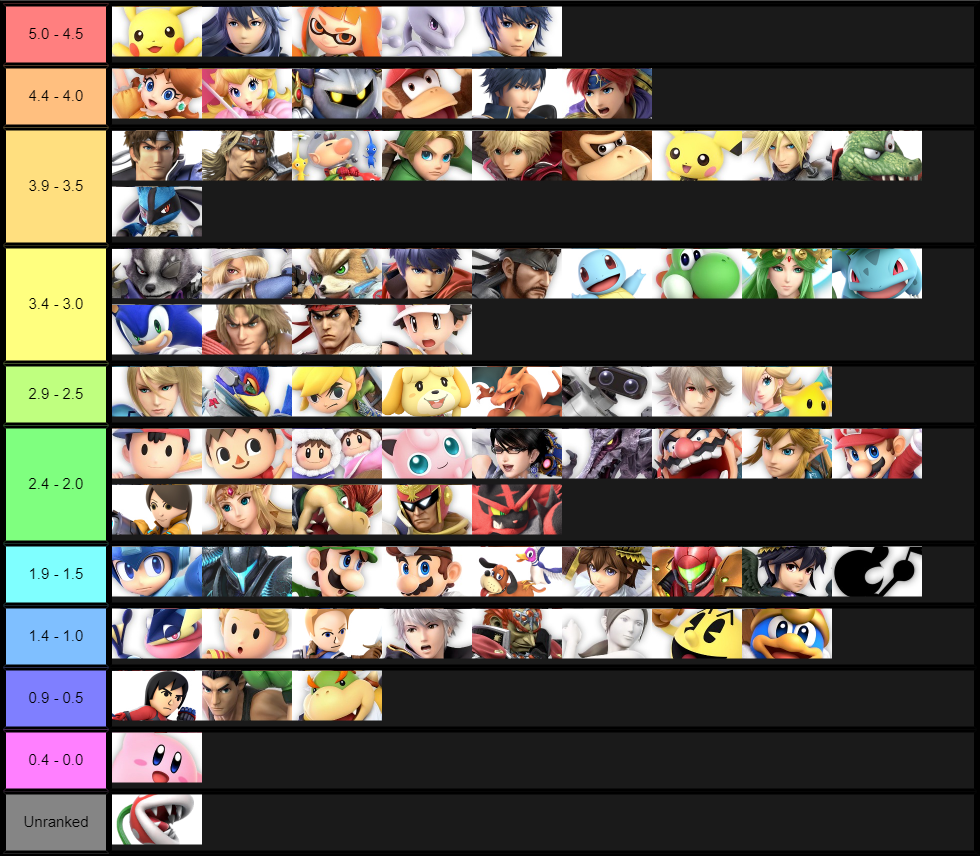
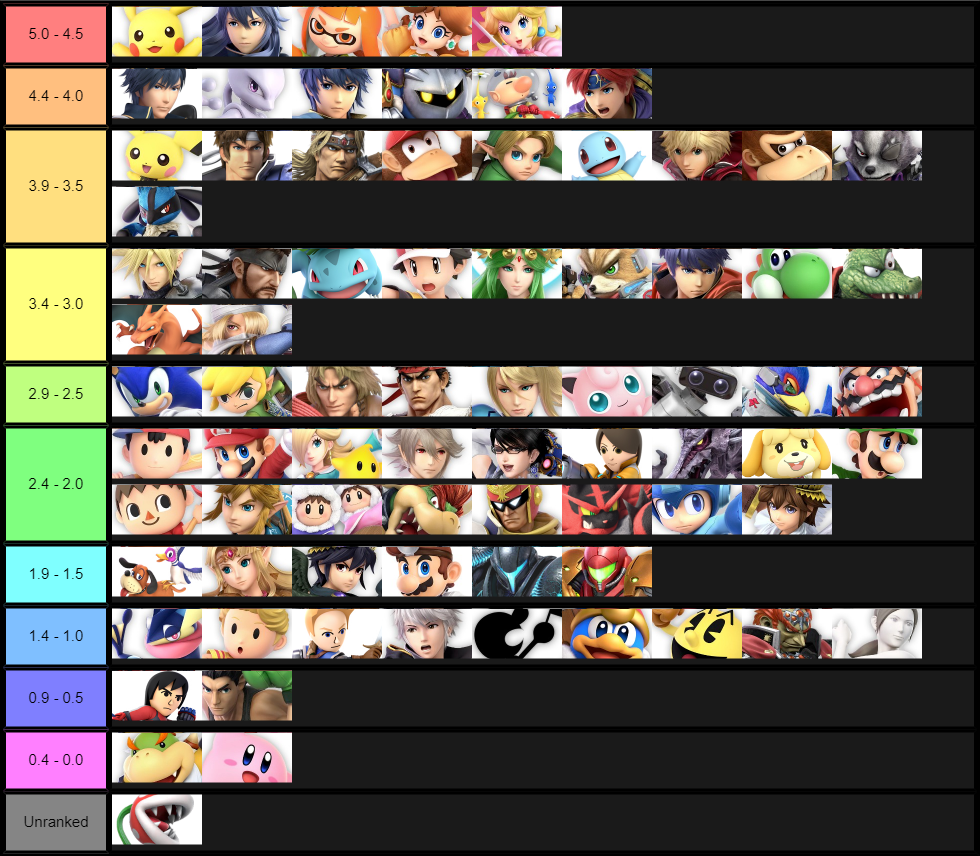
New Ultimate Tierlist

diff --git a/commands/tierlist.js b/commands/tierlist.js
@@ -40,7 +40,7 @@ module.exports = {
             case 'ultimate':
             case 'u':
             case '5':
-                message.channel.send('This tier list is not an official tier list. It was made by averaging the tier lists from pro players. Last updated: 12/20/2018', {file: 'tierlists/ultimatetl.png'});
+                message.channel.send('This tier list is not an official tier list. It was made by averaging the tier lists from pro players. Last updated: 12/21/2018', {file: 'tierlists/ultimatetl.png'});
                 break;
             default:
                 message.channel.send('You didn\'t specify a Smash game! (64/melee/brawl/brawlminus/projectm/4/ultimate)');
